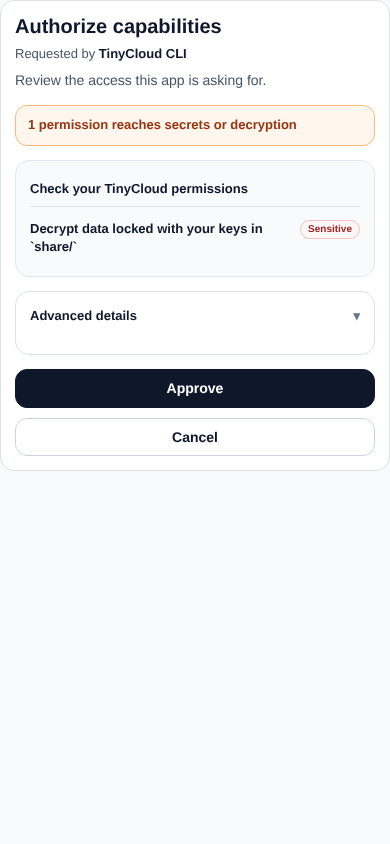
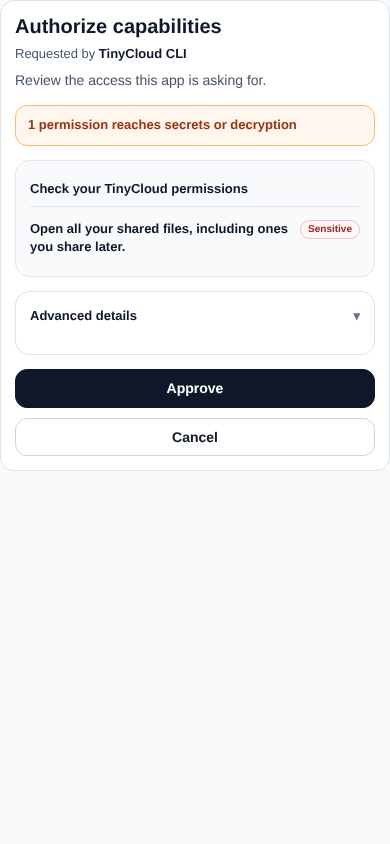
fix(consent): explain shared-file prefix approval in plain words

Changed region(s): [[0.0615, 0.2464, 0.7385, 0.3081]]

diff --git a/packages/capability-review/test/statements-named-key.test.ts b/packages/capability-review/test/statements-named-key.test.ts
@@ -216,6 +216,29 @@ describe("exact share decrypt copy", () => {
   });
 });
 
+describe("owner share-prefix decrypt explanation", () => {
+  for (const shape of ["A", "B"] as const) {
+    it(`shape ${shape} explains that the owner's grant includes future shares`, () => {
+      const resource = `${NETWORK}/share/`;
+      const row = buildStatement(shapeGrant(shape, resource, [ABILITY.decrypt]));
+      expect(row.primaryText).toBe("Open all your shared files, including ones you share later.");
+      expect(row.resource).toBe(resource);
+    });
+  }
+
+  it("keeps other prefix, action and ownership explanations unchanged", () => {
+    expect(buildStatement(namedGrant(PREFIX, [ABILITY.decrypt])).primaryText).toBe(PREFIX_SENTENCE.decrypt);
+    expect(buildStatement(namedGrant(`${NETWORK}/share/`, [ABILITY.create])).primaryText)
+      .toBe("Create your own encryption keys in `share/`");
+    const otherOwner = namedGrant(`${NETWORK}/share/`, [ABILITY.decrypt]);
+    otherOwner.ownedBySelf = false;
+    expect(buildStatement(otherOwner).primaryText)
+      .not.toBe("Open all your shared files, including ones you share later.");
+    expect(buildStatement(namedGrant(`${NETWORK}/share/abc123`, [ABILITY.decrypt])).primaryText)
+      .toBe("Open this shared file");
+  });
+});
+
 describe("key.delete fails closed on every encryption resource shape", () => {
   const cases = [
     ["exact key", KEY],

diff --git a/packages/capability-review/src/statements.ts b/packages/capability-review/src/statements.ts
@@ -633,6 +633,10 @@ function buildNamedKeyStatement(
     /^share\/[^/]+$/.test(parsed.keyPath) && verb === "decrypt") {
     return { primaryText: "Open this shared file", service: grant.service, resource };
   }
+  if (parsed.kind === "prefix" && parsed.network === "default" &&
+    parsed.keyPath === "share/" && verb === "decrypt") {
+    return { primaryText: OWN_KEY_PREFIX_STATEMENTS.shareDecrypt, service: grant.service, resource };
+  }
   const template = parsed.kind === "prefix" && parsed.network === "default" &&
     (verb === "create" || verb === "decrypt")
     ? OWN_KEY_PREFIX_STATEMENTS[verb]

diff --git a/apps/api/src/__tests__/delegate-share-decrypt.test.ts b/apps/api/src/__tests__/delegate-share-decrypt.test.ts
@@ -136,10 +136,6 @@ describe('owner share-prefix decrypt permission', () => {
     expect(parsePreparedRecap(result.prepared.siwe)).toContainEqual({
       service: 'encryption', space: 'encryption', path: prefix, actions: [DECRYPT],
     });
-    const grant = review(result.prepared.siwe).permissions.find((entry) => entry.service === 'tinycloud.encryption')!;
-    expect(buildStatements(grant).map((row) => row.primaryText)).toEqual([
-      'Decrypt data locked with your keys in `share/`',
-    ]);
   });
 
   test('owner can remove the prefix decrypt action before signing', () => {

diff --git a/packages/capability-review/test/copy-one-line.test.ts b/packages/capability-review/test/copy-one-line.test.ts
@@ -44,7 +44,10 @@ const PLACEHOLDER_CHARS = 8;
  * Descriptors allowed a second line: exact source text (placeholders as in
  * the source) to a one-line reason. Keep this list short.
  */
-const TWO_LINE_EXCEPTIONS: Record<string, string> = {};
+const TWO_LINE_EXCEPTIONS: Record<string, string> = {
+  "Open all your shared files, including ones you share later.":
+    "Sam approved this exact future-share explanation on 2026-10-31 (ask/openkey-388-share-approval).",
+};
 
 const COPY_SOURCES = ["copy.ts", "statements.ts", "core-operations.ts", "classify.ts", "plain-words.ts"];
 

diff --git a/packages/capability-review/src/copy.ts b/packages/capability-review/src/copy.ts
@@ -98,6 +98,7 @@ export const NAMED_KEY_STATEMENTS: Record<
 export const OWN_KEY_PREFIX_STATEMENTS = {
   create: "Create your own encryption keys in `{path}`",
   decrypt: "Decrypt data locked with your keys in `{path}`",
+  shareDecrypt: "Open all your shared files, including ones you share later.",
 } as const;
 
 /**

diff --git a/.changeset/tc1424-share-prefix-plain-copy.md b/.changeset/tc1424-share-prefix-plain-copy.md
@@ -1,0 +1,5 @@
+---
+"@openkey/capability-review": patch
+---
+
+Explain the owner's default/share/ decrypt approval in plain words: "Open all your shared files, including ones you share later." Keep exact-leaf copy and signed permissions unchanged. Details: TC-1424
